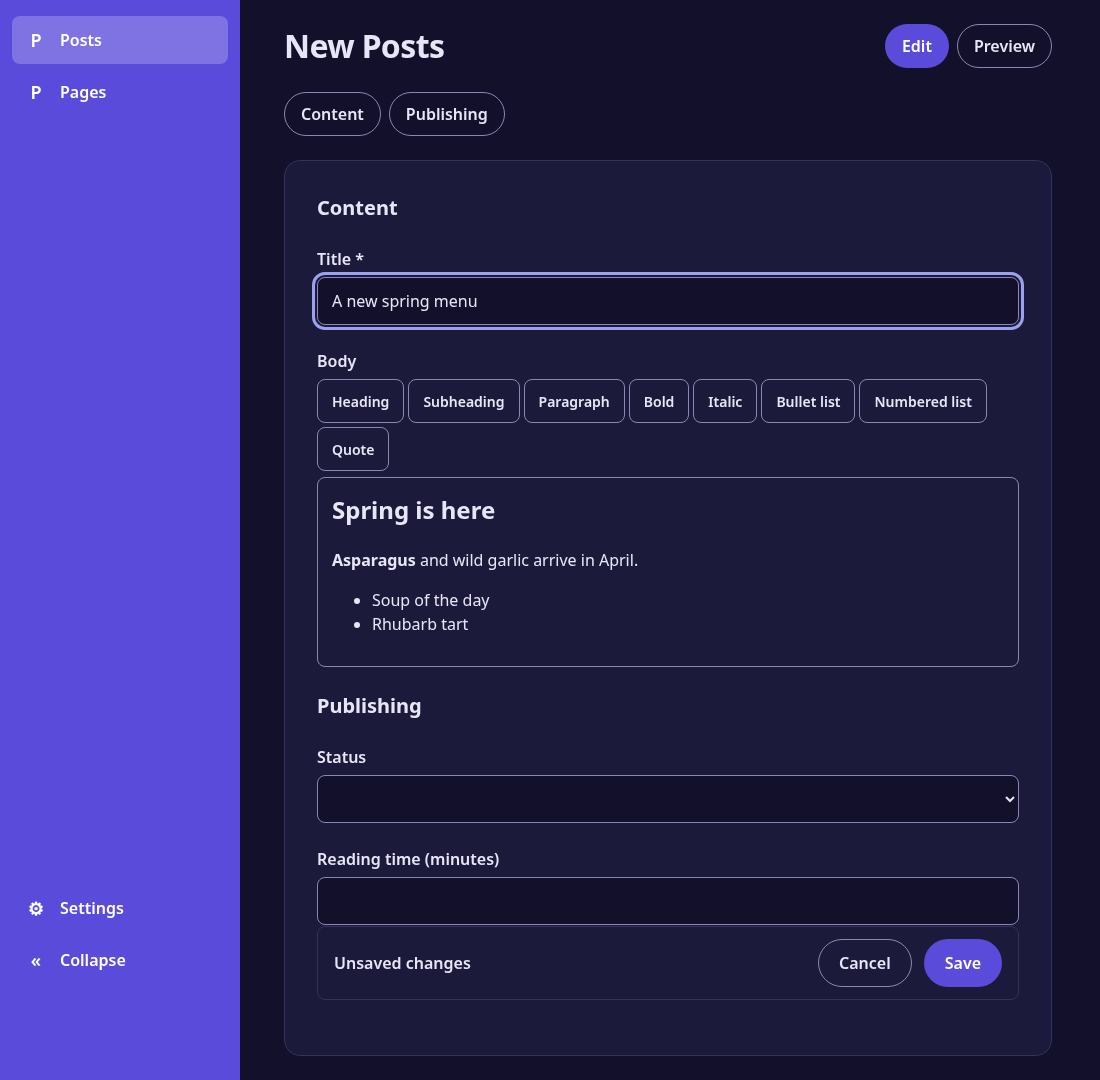
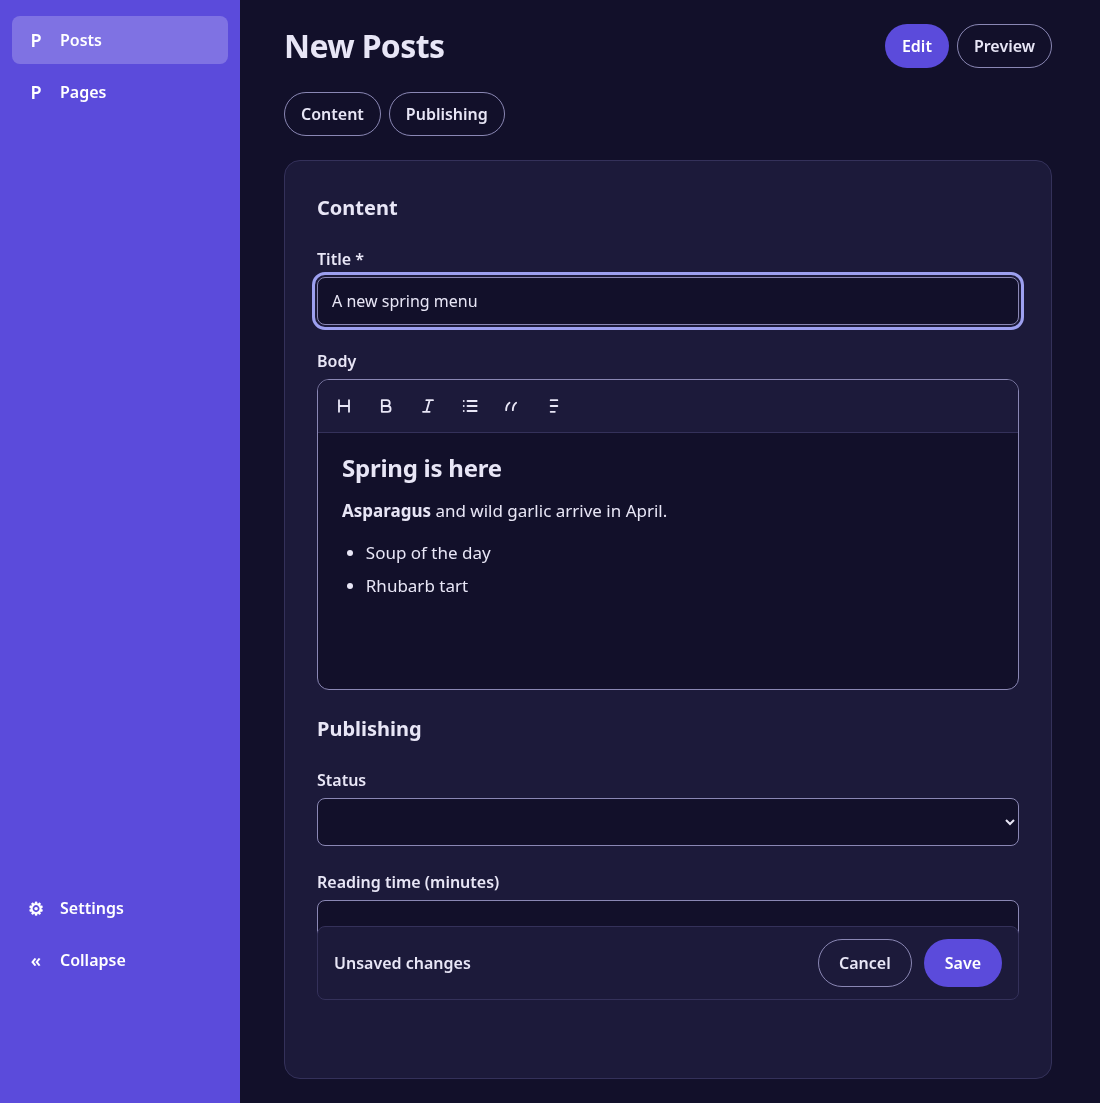
Rich-text field: style it like the design (MONKY-27)
One framed box with an icon toolbar (heading, bold, italic, bulleted list, quote, paragraph)
and article-style type in the editing area: larger text, more line height, a tinted quote.

diff --git a/src/fields/richtext-field.ts b/src/fields/richtext-field.ts
@@ -1,4 +1,4 @@
-import { css, html } from 'lit'
+import { css, html, svg } from 'lit'
 import { customElement, property } from 'lit/decorators.js'
 import { MonkeyField } from './field.ts'
 import type { ControlAttributes } from './field.ts'
@@ -9,6 +9,8 @@ import type { RichtextFormat } from '../config/main.ts'
 
 interface Command {
     readonly label: string
+    // The path of the icon in a 24 by 24 box.
+    readonly icon: string
     readonly run: () => void
 }
 
@@ -17,14 +19,12 @@ const format = (command: string, value?: string): void => {
 }
 
 const COMMANDS: readonly Command[] = [
-    { label: 'Heading', run: () => format('formatBlock', 'h2') },
-    { label: 'Subheading', run: () => format('formatBlock', 'h3') },
-    { label: 'Paragraph', run: () => format('formatBlock', 'p') },
-    { label: 'Bold', run: () => format('bold') },
-    { label: 'Italic', run: () => format('italic') },
-    { label: 'Bullet list', run: () => format('insertUnorderedList') },
-    { label: 'Numbered list', run: () => format('insertOrderedList') },
-    { label: 'Quote', run: () => format('formatBlock', 'blockquote') },
+    { label: 'Heading', icon: 'M6 5v14M18 5v14M6 12h12', run: () => format('formatBlock', 'h2') },
+    { label: 'Bold', icon: 'M7 5h6a3.5 3.5 0 0 1 0 7H7zM7 12h7a3.5 3.5 0 0 1 0 7H7z', run: () => format('bold') },
+    { label: 'Italic', icon: 'M10 5h8M6 19h8M14 5l-4 14', run: () => format('italic') },
+    { label: 'Bulleted list', icon: 'M9 6h11M9 12h11M9 18h11M4.5 6h.01M4.5 12h.01M4.5 18h.01', run: () => format('insertUnorderedList') },
+    { label: 'Quote', icon: 'M5 17c0-4 1-7 4-9M13 17c0-4 1-7 4-9', run: () => format('formatBlock', 'blockquote') },
+    { label: 'Paragraph', icon: 'M8 5h8M8 12h8M8 19h5', run: () => format('formatBlock', 'p') },
 ]
 
 // A text with headings, bold, italic, lists and quotes, made with a small toolbar on a
@@ -34,47 +34,67 @@ const COMMANDS: readonly Command[] = [
 @customElement('monkey-richtext-field')
 export class MonkeyRichtextField extends MonkeyField<string> {
     static override styles = [...MonkeyField.styles, css`
+        .frame {
+            overflow: hidden;
+            background: var(--monkey-background-color);
+            border: 1px solid var(--monkey-control-border-color);
+            border-radius: calc(var(--monkey-radius) + 4px);
+        }
+
+        .frame:focus-within {
+            outline: 3px solid var(--monkey-accent-color);
+            outline-offset: 2px;
+        }
+
+        .frame.invalid {
+            border: 2px solid var(--monkey-error-color);
+        }
+
         .toolbar {
-            display: flex;
-            flex-wrap: wrap;
-            gap: 0.25rem;
+            display: grid;
+            grid-auto-flow: column;
+            justify-content: start;
+            align-items: center;
+            gap: 2px;
+            padding: 6px;
+            background: var(--monkey-surface-color);
+            border-block-end: 1px solid var(--monkey-border-color);
         }
 
         .toolbar button {
-            min-block-size: 2.75rem;
-            padding: 0 0.875rem;
-            font: inherit;
-            font-size: 0.875rem;
-            font-weight: 600;
+            display: grid;
+            place-items: center;
+            inline-size: 2.5rem;
+            block-size: 2.5rem;
+            padding: 0;
             color: var(--monkey-color);
             background: transparent;
-            border: 1px solid var(--monkey-control-border-color);
+            border: 0;
             border-radius: var(--monkey-radius);
             cursor: pointer;
         }
 
+        .toolbar button:hover:not(:disabled) {
+            background: color-mix(in oklab, var(--monkey-accent-color) 14%, var(--monkey-surface-color));
+        }
+
+        .toolbar button:focus-visible {
+            outline: 3px solid var(--monkey-accent-color);
+            outline-offset: -3px;
+        }
+
         .toolbar button:disabled {
-            opacity: 0.6;
+            opacity: 0.5;
             cursor: not-allowed;
         }
 
         .editor {
             box-sizing: border-box;
-            min-block-size: 10rem;
-            padding: var(--monkey-padding);
-            color: var(--monkey-color);
-            background: var(--monkey-surface-color);
-            border: 1px solid var(--monkey-control-border-color);
-            border-radius: var(--monkey-radius);
-        }
-
-        .editor:focus-visible {
-            outline: 3px solid var(--monkey-accent-color);
-            outline-offset: 2px;
-        }
-
-        .editor[aria-invalid='true'] {
-            border-color: var(--monkey-error-color);
+            min-block-size: 16rem;
+            padding: 1.25rem 1.5rem;
+            font-size: 1.0625rem;
+            line-height: 1.7;
+            outline: 0;
         }
 
         .editor > :first-child {
@@ -85,11 +105,37 @@ export class MonkeyRichtextField extends MonkeyField<string> {
             margin-block-end: 0;
         }
 
+        .editor h2 {
+            margin: 1.4em 0 0.4em;
+            font-size: 1.5rem;
+            line-height: 1.25;
+            letter-spacing: -0.01em;
+        }
+
+        .editor h3 {
+            margin: 1.2em 0 0.4em;
+            font-size: 1.25rem;
+            line-height: 1.3;
+        }
+
+        .editor p {
+            margin: 0.8em 0;
+        }
+
+        .editor ul, .editor ol {
+            margin: 0.8em 0;
+            padding-inline-start: 1.4em;
+        }
+
+        .editor li {
+            margin: 0.25em 0;
+        }
+
         .editor blockquote {
-            margin-inline: 0;
-            padding-inline-start: 1rem;
-            color: var(--monkey-muted-color);
-            border-inline-start: 4px solid var(--monkey-border-color);
+            margin: 1em 0;
+            padding: 0.625rem 1.125rem;
+            background: color-mix(in oklab, var(--monkey-accent-color) 9%, var(--monkey-surface-color));
+            border-radius: var(--monkey-radius);
         }
     `]
 
@@ -135,20 +181,23 @@ export class MonkeyRichtextField extends MonkeyField<string> {
 
     private toolbar(editable: boolean): unknown {
         return html`
-            <div class="toolbar" role="toolbar" aria-label="Formatting">
-                ${COMMANDS.map(({ label, run }) => html`
+            <div class="toolbar" role="toolbar" aria-label="Formatting" aria-controls="control">
+                ${COMMANDS.map(({ label, icon, run }) => html`
                     <button
                         type="button"
+                        title=${label}
+                        aria-label=${label}
                         ?disabled=${!editable}
                         @mousedown=${(event: Event) => event.preventDefault()}
-                        @click=${(event: Event) => {
+                        @click=${() => {
                             const editor = this.renderRoot.querySelector<HTMLElement>('#control')
 
                             editor?.focus()
                             run()
                             editor?.dispatchEvent(new Event('input', { bubbles: true }))
-                            event.preventDefault()
-                        }}>${label}</button>`)}
+                        }}>
+                        <svg width="20" height="20" viewBox="0 0 24 24" fill="none" stroke="currentColor" stroke-width="2.2" stroke-linecap="round" stroke-linejoin="round" aria-hidden="true">${svg`<path d=${icon}></path>`}</svg>
+                    </button>`)}
             </div>`
     }
 
@@ -156,20 +205,22 @@ export class MonkeyRichtextField extends MonkeyField<string> {
         const editable = !this.disabled && !this.readonly
 
         return html`
-            ${this.toolbar(editable)}
-            <div
-                id=${id}
-                class="editor"
-                role="textbox"
-                aria-multiline="true"
-                aria-label=${this.label === '' ? this.name : this.label}
-                aria-required=${this.required ? 'true' : 'false'}
-                aria-readonly=${this.readonly ? 'true' : 'false'}
-                aria-disabled=${this.disabled ? 'true' : 'false'}
-                aria-invalid=${invalid ? 'true' : 'false'}
-                aria-describedby=${describedBy}
-                contenteditable=${editable ? 'true' : 'false'}
-                tabindex="0"
-                @input=${(event: Event) => this.input(event)}></div>`
+            <div class=${invalid ? 'frame invalid' : 'frame'}>
+                ${this.toolbar(editable)}
+                <div
+                    id=${id}
+                    class="editor"
+                    role="textbox"
+                    aria-multiline="true"
+                    aria-label=${this.label === '' ? this.name : this.label}
+                    aria-required=${this.required ? 'true' : 'false'}
+                    aria-readonly=${this.readonly ? 'true' : 'false'}
+                    aria-disabled=${this.disabled ? 'true' : 'false'}
+                    aria-invalid=${invalid ? 'true' : 'false'}
+                    aria-describedby=${describedBy}
+                    contenteditable=${editable ? 'true' : 'false'}
+                    tabindex="0"
+                    @input=${(event: Event) => this.input(event)}></div>
+            </div>`
     }
 }

diff --git a/src/fields/fields.spec.ts b/src/fields/fields.spec.ts
@@ -246,8 +246,11 @@ test.describe('monkey-richtext-field', () => {
     test('should have a toolbar with the formats', async ({ page }) => {
         await draw(page, '')
 
-        await expect(page.getByRole('toolbar', { name: 'Formatting' }).getByRole('button'))
-            .toHaveText(['Heading', 'Subheading', 'Paragraph', 'Bold', 'Italic', 'Bullet list', 'Numbered list', 'Quote'])
+        const buttons = page.getByRole('toolbar', { name: 'Formatting' }).getByRole('button')
+
+        await expect(buttons).toHaveCount(6)
+        expect(await buttons.evaluateAll((all) => all.map((button) => button.getAttribute('aria-label'))))
+            .toEqual(['Heading', 'Bold', 'Italic', 'Bulleted list', 'Quote', 'Paragraph'])
     })
 
     test('should make the selected text bold, and send the HTML', async ({ page }) => {
@@ -264,7 +267,7 @@ test.describe('monkey-richtext-field', () => {
         await editor(page).getByText('One').click()
         await page.getByRole('button', { name: 'Heading', exact: true }).click()
         await editor(page).getByText('Two').click()
-        await page.getByRole('button', { name: 'Bullet list' }).click()
+        await page.getByRole('button', { name: 'Bulleted list' }).click()
         await editor(page).getByText('Three').click()
         await page.getByRole('button', { name: 'Quote' }).click()
 
